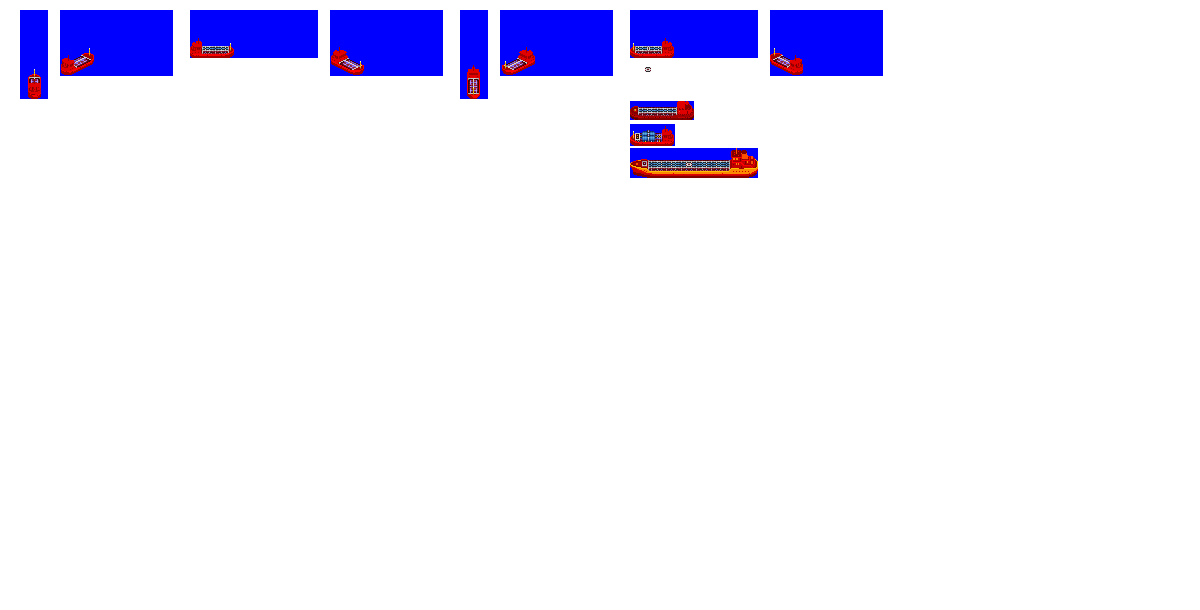
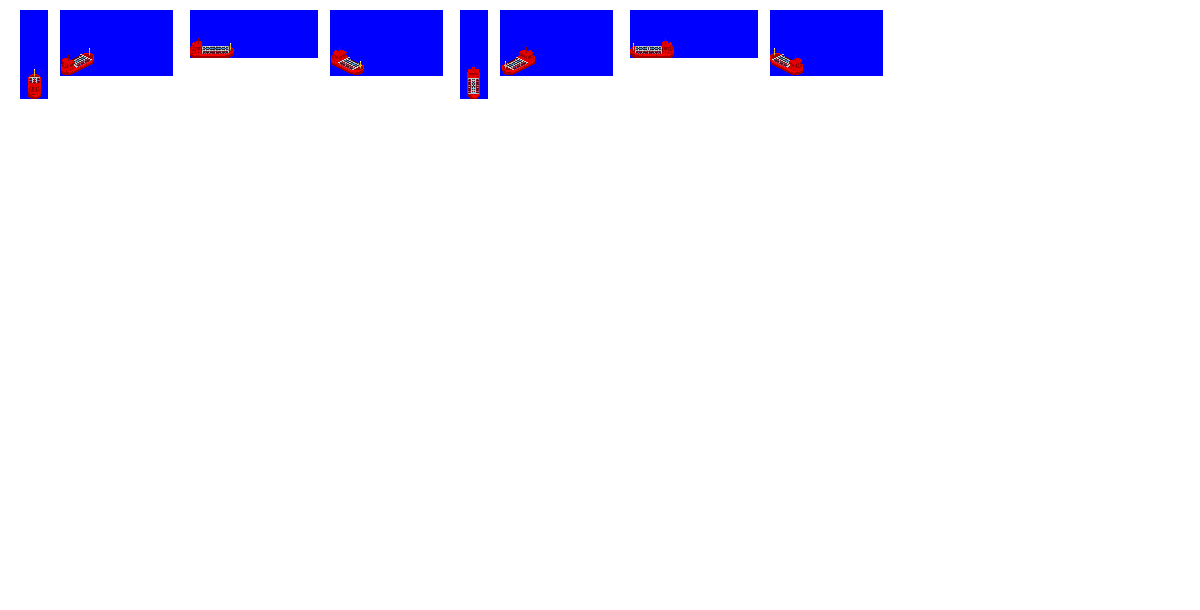
Change: sprites complete for gen 3A product tanker

diff --git a/src/vehicles/product_tanker_ships.py b/src/vehicles/product_tanker_ships.py
@@ -10,7 +10,7 @@ def main():
         hull="ShipHouseRear",
         str_type_info="SMALL_TANKER_COASTAL_INLAND",
         effect_type="EFFECT_SPRITE_DIESEL",
-        sprites_complete=False,
+        sprites_complete=True,
     )
 
     ship = ProductTankerShip(
